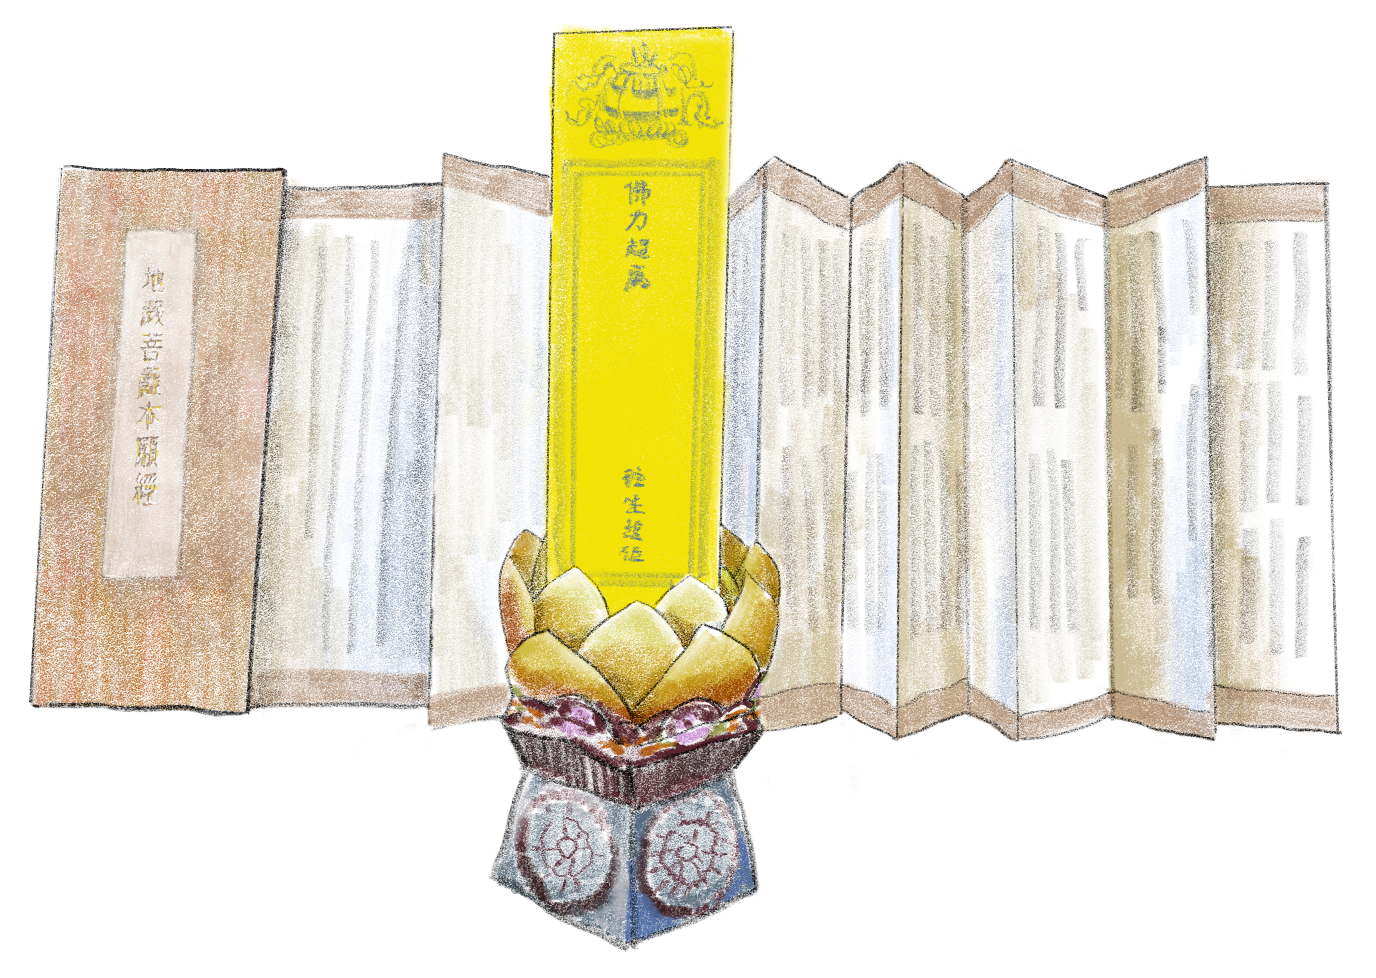
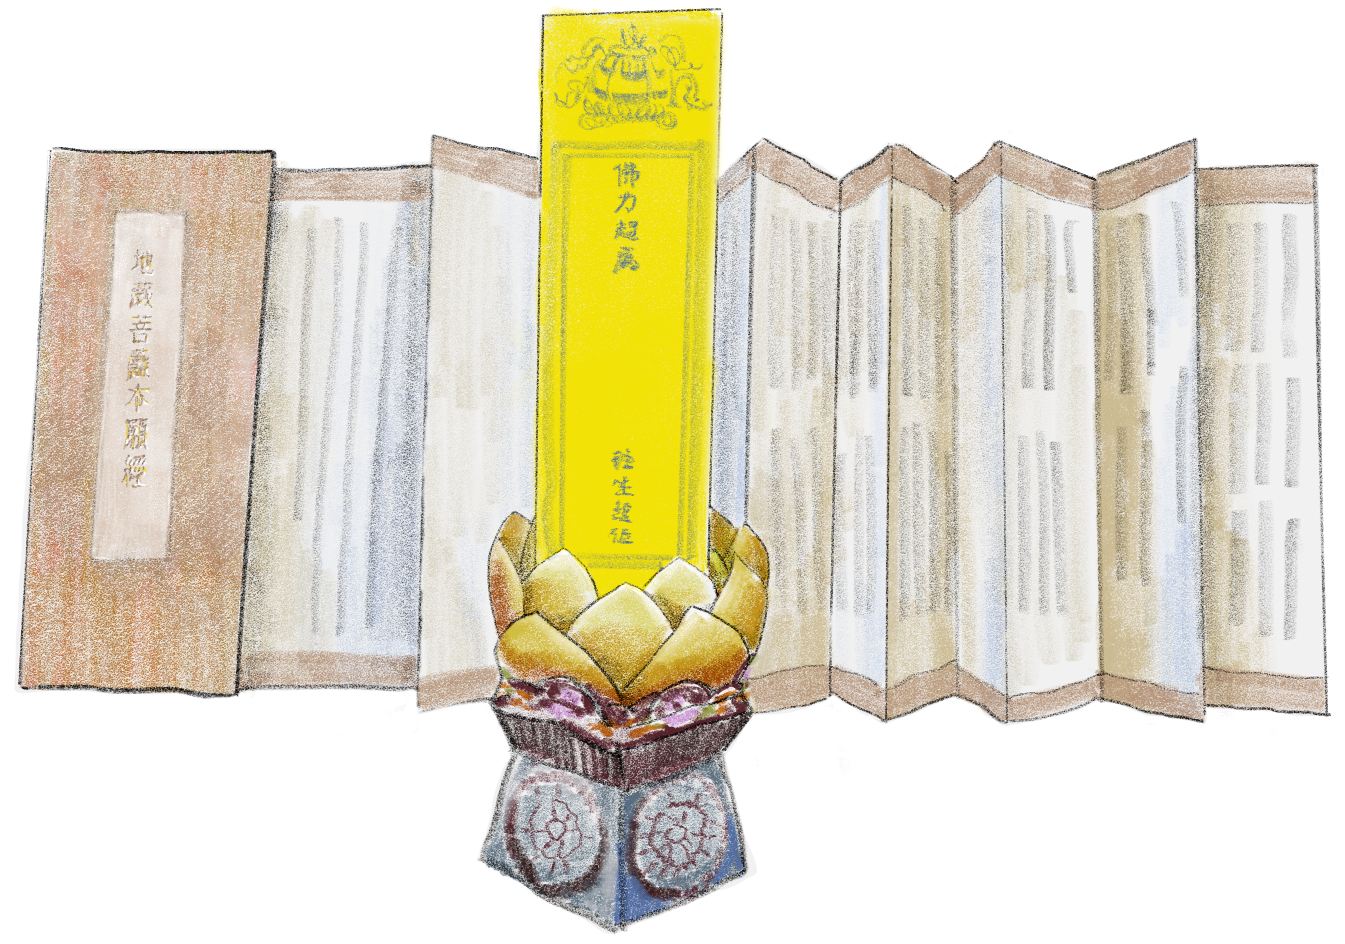
style: update image assets and content configs

diff --git a/packages/twreporter/ddd/2026-07-kodokushi/src/lib/content.ts b/packages/twreporter/ddd/2026-07-kodokushi/src/lib/content.ts
@@ -28,10 +28,10 @@ export const story = {
         '我常告訴大家遇到這樣的事要轉念，轉什麼念？別人需要你幫助的時候，你伸出援手，是給你機會積陰德。',
       ],
       images: [
-        { id: 'chief', src: image('2-1_里長.png'), alt: '里長拿著手機通話的插畫', anchor: 0, x: -31, top: -13, width: 244 },
-        { id: 'locksmith', src: image('2-2_開鎖.png'), alt: '鎖匠開鎖的插畫', anchor: 3, x: 316, top: -20, width: 400 },
-        { id: 'forensic-left', src: image('3-1-1_多名鑑識人員進入勘查.png'), alt: '鑑識警察與派出所警察的插畫', anchor: 6, x: -83, top: -12, width: 204 },
-        { id: 'forensic-right', src: image('3-1-2_多名鑑識人員進入勘查.png'), alt: '鑑識警察與派出所警察的插畫', anchor: 7, x: 386, top: -18, width: 285 },
+        { id: 'chief', src: image('2-1_里長.png'), alt: '里長拿著手機通話的插畫', anchor: 0, x: -31, top: -15, width: 244 },
+        { id: 'locksmith', src: image('2-2_開鎖.png'), alt: '鎖匠開鎖的插畫', anchor: 3, x: 326, top: -20, width: 372 },
+        { id: 'forensic-left', src: image('3-4-L_多名鑑識人員進入勘查.png'), alt: '鑑識警察與派出所警察的插畫', anchor: 6, x: -88, top: -10, width: 204 },
+        { id: 'forensic-right', src: image('3-4-R_多名鑑識人員進入勘查.png'), alt: '鑑識警察與派出所警察的插畫', anchor: 7, x: 391, top: -19, width: 285 },
       ],
     },
     {
@@ -55,12 +55,13 @@ export const story = {
         '當警察看過這麼多案件，覺得人生無常啊！為什麼一個人突然就沒了？離開後，連一個出面處理後事的人都沒有？這些問題，我也沒有答案，只能在自己的份內，盡量幫他把最後一段路走完。',
       ],
       images: [
-        { id: 'evidence', src: image('3-3_搜證物-健保卡.png'), alt: '健保卡（搜證物）', anchor: 1, x: 448, top: -23, width: 197 },
-        { id: 'evidence', src: image('3-3_搜證物-手機.png'), alt: '手機（搜證物）', anchor: 2, x: -85, top: 25, width: 161 },
-        { id: 'evidence', src: image('3-3_搜證物-藥丸.png'), alt: '藥丸（搜證物）', anchor: 4, x: 370, top: -54, width: 228 },
-        { id: 'evidence', src: image('3-3_搜證物-照片.png'), alt: '照片（搜證物）', anchor: 7, x: 388, top: 15, width: 237 },
+        { id: 'police', src: image('3-1_匿名派出所警察與鑑識員警.png'), alt: '匿名派出所警察', anchor: 0, x: -43, top: -25, width: 201 },
+        { id: 'evidence', src: image('3-3_搜證物-健保卡.png'), alt: '健保卡（搜證物）', anchor: 1, x: 432, top: 55, width: 197 },
+        { id: 'evidence', src: image('3-3_搜證物-手機.png'), alt: '手機（搜證物）', anchor: 2, x: -82, top: 42, width: 161 },
+        { id: 'evidence', src: image('3-3_搜證物-藥丸.png'), alt: '藥丸（搜證物）', anchor: 4, x: 369, top: -55, width: 228 },
+        { id: 'evidence', src: image('3-3_搜證物-照片.png'), alt: '照片（搜證物）', anchor: 7, x: 390, top: 12, width: 237 },
         { id: 'evidence', src: image('3-3_搜證物-藥袋.png'), alt: '藥袋（搜證物）', anchor: 9, x: -117, top: -12, width: 229 },
-        { id: 'cordon-a', src: image('3-4_封鎖線.png'), alt: '封鎖線的插畫', anchor: 6, x: -100, top: 0, width: 732 },
+        { id: 'cordon-a', src: image('3-5_封鎖線.png'), alt: '封鎖線的插畫', anchor: 6, x: -91, top: -12, width: 732 },
         { id: 'phone-call', src: image('3-2_警察打電話半身.png'), alt: '警察打電話通知家屬的插畫', anchor: 13, x: 312, top: -28, width: 356 },
       ],
     },
@@ -77,11 +78,11 @@ export const story = {
         '對法醫來說，每個人怎麼死的都很重要。我一直相信，一個國家是否進步，就在於怎麼去好好處理這些社會沒有看見的人，讓司法和往生者都有尊嚴。',
       ],
       images: [
-        { id: 'doc-1', src: image('4-1-1_法醫.png'), alt: '法醫', anchor: 0, x: -25, top: -11, width: 177 },
-        { id: 'doc-2', src: image('4-1-2_法醫.png'), alt: '法醫', anchor: 2, x: 435, top: 0, width: 177 },
-        { id: 'room-light', src: image('4-2_相驗中窗戶-中.png'), alt: '相驗室燈', anchor: 4, x: 487, top: 0, width: 107 },
-        { id: 'room-left', src: image('4-2_相驗中窗戶-左.png'), alt: '相驗室窗戶', anchor: 5, x: -130, top: 2, width: 200 },
-        { id: 'room-right', src: image('4-2_相驗中窗戶-右.png'), alt: '相驗室窗戶', anchor: 6, x: 453, top: -35, width: 200 },
+        { id: 'doc-1', src: image('4-1_法醫.png'), alt: '法醫', anchor: 0, x: -70, top: -17, width: 255 },
+        { id: 'doc-2', src: image('4-2_法醫半身.png'), alt: '法醫', anchor: 2, x: 434, top: -5, width: 198 },
+        { id: 'room-light', src: image('4-3_相驗中燈.png'), alt: '相驗室燈', anchor: 4, x: 498, top: -4, width: 117 },
+        { id: 'room-left', src: image('4-3-L_相驗中窗戶.png'), alt: '相驗室窗戶', anchor: 5, x: -130, top: -1, width: 216 },
+        { id: 'room-right', src: image('4-3-R_相驗中窗戶.png'), alt: '相驗室窗戶', anchor: 6, x: 465, top: -35, width: 200 },
       ],
     },
     {
@@ -97,10 +98,10 @@ export const story = {
         '我既然要做，就要做好一點，視為家中長輩過世，幫他入土為安。畢竟有緣碰到了嘛。',
       ],
       images: [
-        { id: 'clerk', src: image('5-1_區公所科員.png'), alt: '區公所科員的插畫', anchor: 0, x: -60, top: -4, width: 252 },
-        { id: 'certificate', src: image('5-2_死亡證明與公文.png'), alt: '死亡證明書與公文的插畫', anchor: 2, x: 440, top: -32, width: 219 },
-        { id: 'freezer', src: image('5-3_冰櫃查詢系統.png'), alt: '殯儀館冰櫃查詢系統的插畫', anchor: 4, x: -433, top: -37, width: 661 },
-        { id: 'sutra', src: image('5-4_經文與蓮位牌.png'), alt: '經文與蓮位牌的插畫', anchor: 6, x: 400, top: -53, width: 461 },
+        { id: 'clerk', src: image('5-1_區公所科員.png'), alt: '區公所科員的插畫', anchor: 0, x: -65, top: -16, width: 257 },
+        { id: 'certificate', src: image('5-2_死亡證明與公文.png'), alt: '死亡證明書與公文的插畫', anchor: 2, x: 437, top: -33, width: 236 },
+        { id: 'freezer', src: image('5-3_冰櫃查詢系統.png'), alt: '殯儀館冰櫃查詢系統的插畫', anchor: 4, x: -379, top: -3, width: 596 },
+        { id: 'sutra', src: image('5-4_經文與蓮位牌.png'), alt: '經文與蓮位牌的插畫', anchor: 6, x: 365, top: -62, width: 461 },
       ],
     },
     {
@@ -114,13 +115,12 @@ export const story = {
         '有時候，公所也會特別跟我們說，這位往生者雖然沒有親屬認領，但有朋友很想送他最後一程，能不能通知他？我們一定會通知。只要有人願意來，一方面讓亡者得到安慰，另一方面，也讓活著的朋友不會留下遺憾。',
       ],
       images: [
-        { id: 'director', src: image('6-1_慈善團體總監.png'), alt: '慈善團體總監', anchor: 0, x: -41, top: -7, width: 155 },
-        { id: 'joint-rite-a', src: image('6-2_聯合奠祭-基督教.png'), alt: '聯合奠祭會場的插畫', anchor: 2, x: -223, top: 1, width: 308 },
-        { id: 'joint-rite-b', src: image('6-2_聯合奠祭-佛教.png'), alt: '聯合奠祭會場的插畫', anchor: 2, x: 510, top: -14, width: 287 },
-        { id: 'joint-rite-b', src: image('6-3_貨櫃禮廳與說明牌.png'), alt: '貨櫃禮廳與說明牌的插畫', anchor: 3, x: 321, top: 120, width: 417 },
-        { id: 'funeral', src: image('6-4_慈善團體出殯.png'), alt: '慈善團體出殯的插畫', anchor: 4, x: -144, top: 166, width: 655 },
+        { id: 'director', src: image('6-1_慈善團體總監.png'), alt: '慈善團體總監', anchor: 0, x: -41, top: 1, width: 164 },
+        { id: 'joint-rite-a', src: image('6-2-L_基督教聯合奠祭.png'), alt: '聯合奠祭會場的插畫', anchor: 2, x: -279, top: 16, width: 391 },
+        { id: 'joint-rite-b', src: image('6-2-R_佛教聯合奠祭.png'), alt: '聯合奠祭會場的插畫', anchor: 2, x: 453, top: 11, width: 351 },
+        { id: 'funeral', src: image('6-3_貨櫃禮廳與說明牌與慈善團體出殯.png'), alt: '慈善團體出殯的插畫', anchor: 4, x: -184, top: -117, width: 954 },
       ],
     },
   ],
-  end: image('靈骨塔與骨灰壇.png'),
+  end: image('7_靈骨塔與骨灰壇.png'),
 }
